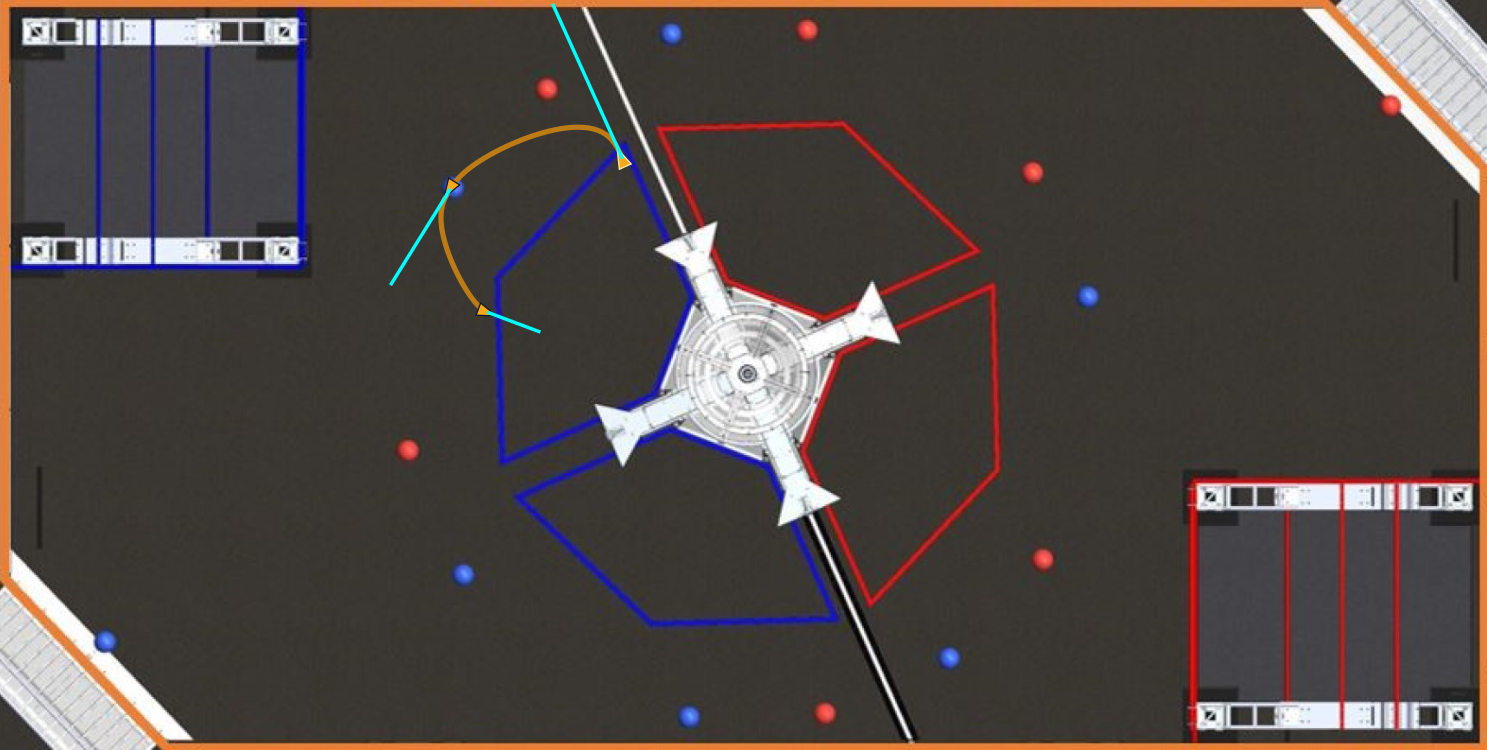
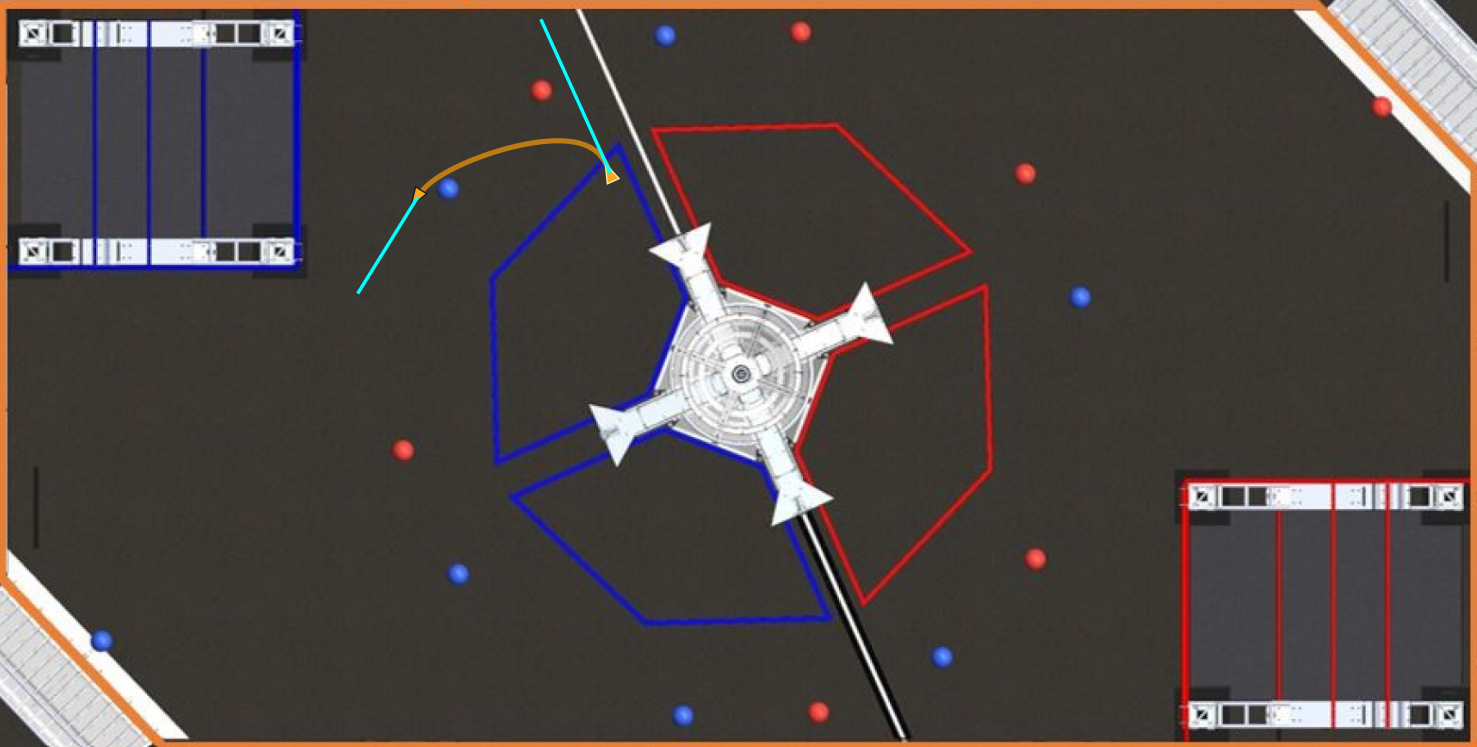
several changes
removed limelight-chooser stuff, hardcoded limelight (10.31.28.26), add new auto images

diff --git a/_includes/right_garrison.html b/_includes/right_garrison.html
@@ -1,15 +1,15 @@
 <!-- Limelight Connection / Livestream (LL) / Button /-->
 <div class="flexbox column squash limelight_info">    
     <div class="container limelight_container">
-        <div id="limelight_conn_button" onclick='toggleLimelights("limelight_conn_button")' class="button red conn_button">
+        <div id="limelight_conn_button" onclick='toggleCamConnection("http://10.31.28.26:5800", "limelight_stream_0", "limelight_conn_button");' class="button red conn_button">
             <p class="conn_button_text" id="limelight_conn_button_text">Connect To Limelight</p>
         </div>
-        <div id="cameras" style = "display: flex; flex-direction: column;">
-            <div class = "table_row" style = "display: flex; justify-content: center; flex-direction: row; align-items: center;">
+        <div id="cameras" style = "display: flex; flex-direction: column; height: 100%">
+            <div class = "table_row" style = "display: flex; justify-content: center; flex-direction: row; align-items: center; height: 100%;">
                 <img id="limelight_stream_0" class="stream" src="">
                 <img id="limelight_stream_1"  class="stream" src="">
             </div>
-            <div class = "table_row">
+            <!-- <div class = "table_row">
                 <div class = "container_buttons">
                     <div class="royal flexbox column lime_pipe">
                         <div class="lime_pipe_div">
@@ -37,7 +37,7 @@
                         </div>
                     </div>
                 </div>
-            </div>
+            </div> -->
         </div>
     </div> 
 </div>

diff --git a/_includes/base_js.html b/_includes/base_js.html
@@ -149,8 +149,8 @@
 
                 // first element is visibility, second element contains all data
                 menuData.set('auto', [false, json['auto']]);
-                menuData.set('limelight',[false, json['limelight']]);
-                menuData.set('pipeline',[false, json['pipeline']]);
+                // menuData.set('limelight',[false, json['limelight']]);
+                // menuData.set('pipeline',[false, json['pipeline']]);
 
                 // debug needs to be setup after normal menus
                 setup_menus();
@@ -160,6 +160,8 @@
 
                 recievedFirstJSON = true;
             }
+
+            // console.log(json);
             
             if (updater != null) {
                 updater(json);
@@ -276,11 +278,8 @@
 
                 constVal.classList.add("debug_value");
                 constVal.addEventListener("input", function(){
-                    if(constVal.innerHTML.indexOf('<div>') != -1){
-                        // bruh
-                        constVal.innerHTML = constVal.innerHTML.replaceAll('<div>','');
-                        constVal.innerHTML = constVal.innerHTML.replaceAll('</div>','');
-                        constVal.innerHTML = constVal.innerHTML.replaceAll('<br>','');
+                    if(constVal.innerHTML.indexOf('/') != -1){
+                        constVal.innerHTML = constVal.innerHTML.replaceAll('/','');
 
                         send("changeconstant:"+key+":"+constKey.innerHTML+":"+constVal.innerHTML);
                     }

diff --git a/_sass/dashboard.scss b/_sass/dashboard.scss
@@ -246,7 +246,7 @@ input {
 
 .stream {
     flex-basis: 50;
-    width: 50%; 
+    width: 100%;
     margin: auto; 
     margin-top: 10px; 
     display: none;
@@ -411,6 +411,7 @@ input {
   
 .limelight_info {
     flex: 0 1 100%; 
+    width: 100%;
     align-items: stretch; 
     padding: 16px; 
     overflow: hidden;
@@ -419,7 +420,7 @@ input {
 .limelight_container {
     text-align: center; 
     flex: 0 0 auto; 
-    padding: 20px; 
+    padding: 10px; 
     margin-bottom: 10px; 
     overflow: visible;
 }

diff --git a/_includes/robot_js.html b/_includes/robot_js.html
@@ -64,8 +64,8 @@
         }
 
         setInner('selected_auto', sel_auto);
-        setInner('selected_limelight', sel_limelight);
-        setInner('selected_pipeline', sel_pipeline);
+        // setInner('selected_limelight', sel_limelight);
+        // setInner('selected_pipeline', sel_pipeline);
 
         // ------------------------------------------------
         // Update Battery Gauge ---------------------------
